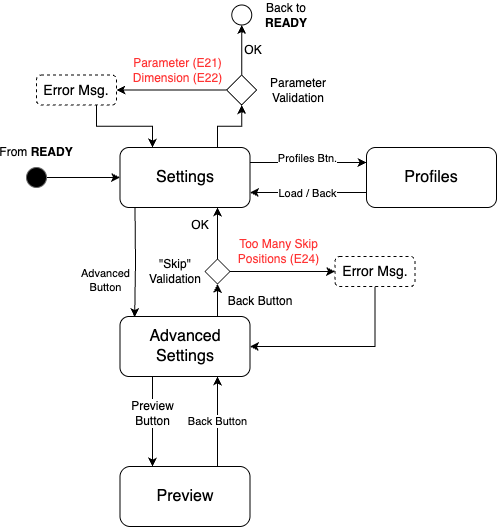
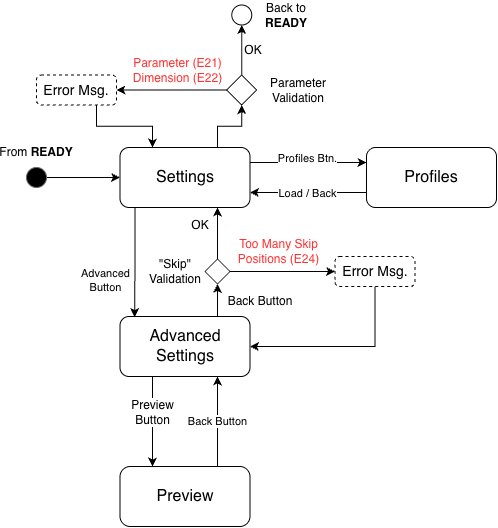
docs: update errors

diff --git a/docs/3-errors.md b/docs/3-errors.md
@@ -6,15 +6,16 @@ This document lists all error codes and their meanings.
 
 | Error Code | Explanation |
 |:-----------|:------------|
-| E01 - IR Sensor Error | Passed-through from the PIC. |
-| E02 - IR Marker Error | Passed-through from the PIC. |
-| E11 - Dispenser Error | The PIC did not receive an ACK from the dispenser head within the timeout period. |
-| E12 - Dispenser Timeout Error | The PIC did not receive a "Cycle Complete" signal from the dispenser head within the timeout period. |
-| E13 - Limit Switch Triggered | A limit switch was triggered unexpectedly, indicating a possible movement boundary collision. |
-| E21 - Parameter Error | One or more parameters in the tray configuration are outside the valid range. |
-| E22 - Dimension Error | The tray dimensions calculated from the parameters are outside the valid range. |
-| E23 - Skip Values Error | Skip positions are invalid for current tray configuration. |
-| E24 - Too Many Skip Positions | The total number of skip positions exceeds the maximum allowed. |
-| E99 - Unknown Error | An unknown error occurred. This means the error code is not defined in the code. |
+| E01 - IR Sensor Error | The system failed to detect the dispenser head using the IR sensor. This error originates from the PIC microcontroller and typically requires a device restart. |
+| E02 - IR Marker Error | The system failed to detect the dispenser head using the IR marker. This error originates from the PIC microcontroller and typically requires a device restart. |
+| E11 - Dispenser Error | The system could not detect the dispenser head. Communication with the dispenser failed, and a device restart is required. |
+| E12 - Dispenser Timeout Error | The system did not receive a response from the dispenser head within the expected timeout period. A device restart is required. |
+| E13 - Limit Switch Triggered | A limit switch was triggered unexpectedly, indicating a possible movement boundary collision. The operator should check the head position before resuming operation. |
+| E21 - Parameter Error | One or more tray configuration parameters are outside the valid range. The system highlights the invalid values that need correction. |
+| E22 - Dimension Error | The calculated tray dimensions from the provided parameters exceed the physical tray boundaries. The configuration values must be verified and corrected. |
+| E23 - Skip Values Error | The configured skip positions are invalid for the current tray configuration. The skip settings must be updated in the Advanced settings menu. |
+| E24 - Excessive Skips Error | The total number of configured skip positions exceeds the system's maximum allowed limit. The number of skip positions must be reduced. |
+| E25 - No Valid Positions Error | All positions on the grid have been marked as skipped, leaving no available positions for dispensing. At least one position must be available for operation. |
+| E99 - Unknown Error | An unrecognized error code was encountered. This indicates an error condition not defined in the system's error handling code. |
 
 \newpage
